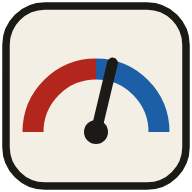
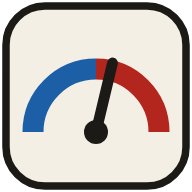
Update 46: Democrats on the left

Changed region(s): [[0.0938, 0.2812, 0.5625, 0.6875], [0.5938, 0.3125, 0.9062, 0.6875]]

diff --git a/src/MaineDashboard.jsx b/src/MaineDashboard.jsx
@@ -128,7 +128,7 @@ const txUnits = (pollMargin) =>
     : [unit("Texas", clamp(0.5 + (pollMargin - TX_HOUSE) / 200, 0.02, 0.98), 1)];
 const makeTexasSenate = (pollMargin) => ({
   id: "tx_sen", state: "TX", title: "U.S. Senate",
-  sub: "Paxton (R) vs Talarico (D)",
+  sub: "Talarico (D) vs Paxton (R)",
   system: "Plurality", real: true,
   note: `Texas leans strongly Republican, so the poll center is shifted ${TX_HOUSE} pts toward Paxton for the state's fundamentals.${TX_HAS_COUNTIES ? " County map built from 2024 results." : " County-level baseline is being added; the needle is currently statewide."}`,
   left: { full: "Paxton", short: "Paxton", color: RED },
@@ -149,7 +149,7 @@ const iaUnits = (pollMargin) =>
     : [unit("Iowa", clamp(0.5 + (pollMargin - IA_HOUSE) / 200, 0.02, 0.98), 1)];
 const makeIowaSenate = (pollMargin) => ({
   id: "ia_sen", state: "IA", title: "U.S. Senate",
-  sub: "Hinson (R) vs Turek (D)",
+  sub: "Turek (D) vs Hinson (R)",
   system: "Plurality", real: true,
   note: `Open seat (Ernst is retiring). Iowa leans strongly Republican, so the poll center is shifted ${IA_HOUSE} pts toward Hinson.${IA_HAS_COUNTIES ? " County map built from 2024 results." : " County-level baseline is being added; the needle is currently statewide."}`,
   left: { full: "Hinson", short: "Hinson", color: RED },
@@ -210,7 +210,7 @@ const makeNebraskaSenate = (pollMargin) => ({
 const AK_HOUSE = 4;
 const makeAlaskaSenate = (pollMargin = 3) => ({
   id: "ak_sen", state: "AK", title: "U.S. Senate",
-  sub: "Sullivan (R) vs Peltola (D)",
+  sub: "Peltola (D) vs Sullivan (R)",
   system: "Ranked-Choice Voting", real: true, noNight: true,
   note: `Polling forecast only. Centered on the head-to-head polling average, then shifted ${AK_HOUSE} pts toward Sullivan because Alaska polls have underestimated Republicans. Alaska's ranked-choice rounds are counted about two weeks after election night, so this needle does not move on election night.`,
   left: { full: "Sullivan", short: "Sullivan", color: RED },
@@ -898,12 +898,12 @@ export default function MaineDashboard() {
 function TiltBar({ race }) {
   const m = compute(race.units);
   const rt = rateOf(race, m);
-  const x = clamp(m.winRight, 0.02, 0.98) * 100;
+  const x = (1 - clamp(m.winRight, 0.02, 0.98)) * 100; // Democrat side drawn on the left
   return (
     <div>
       <div style={{ position: "relative", height: 8, background: C.panel2, borderRadius: 5, overflow: "hidden", marginBottom: 7 }}>
-        <div style={{ position: "absolute", left: 0, top: 0, bottom: 0, width: "50%", background: `${race.left.color}22` }} />
-        <div style={{ position: "absolute", right: 0, top: 0, bottom: 0, width: "50%", background: `${race.right.color}22` }} />
+        <div style={{ position: "absolute", left: 0, top: 0, bottom: 0, width: "50%", background: `${race.right.color}22` }} />
+        <div style={{ position: "absolute", right: 0, top: 0, bottom: 0, width: "50%", background: `${race.left.color}22` }} />
         <div style={{ position: "absolute", left: "50%", top: 0, bottom: 0, width: 1, background: C.line }} />
         <div style={{ position: "absolute", top: -2, left: `calc(${x}% - 3px)`, width: 6, height: 12, borderRadius: 3, background: rt.leader.color, boxShadow: "none", transition: "left .6s ease-out" }} />
       </div>
@@ -1290,7 +1290,7 @@ function AlaskaDetail({ race, onBack, current, wide = true, onNav }) {
       <section style={{ display: "grid", gridTemplateColumns: wide ? "minmax(0,7fr) minmax(0,5fr)" : "minmax(0,1fr)", columnGap: 40, rowGap: 22, paddingBottom: 26, borderBottom: `1px solid ${C.line}` }}>
         <div style={{ display: "flex", flexDirection: "column", gap: 12 }}>
           <div style={kicker(hasNeedle ? d.favColor : RED)}>Alaska · {race.title} · Ranked-choice voting · Forecast only</div>
-          <h1 style={{ margin: 0, fontFamily: serif, fontWeight: 600, fontSize: wide ? 48 : 32, lineHeight: 1.05, letterSpacing: -0.8 }}>Sullivan vs. Peltola</h1>
+          <h1 style={{ margin: 0, fontFamily: serif, fontWeight: 600, fontSize: wide ? 48 : 32, lineHeight: 1.05, letterSpacing: -0.8 }}>Peltola vs. Sullivan</h1>
           <p style={deckStyle(wide)}>{hasNeedle ? dekFor(race, d, current) : "Rated Lean Republican."}</p>
           <p style={{ margin: 0, fontSize: 14, lineHeight: 1.55, color: C.muted }}>This needle is a polling forecast. It won't move on election night, because Alaska's ranked-choice rounds are counted about two weeks later.</p>
         </div>
@@ -1298,8 +1298,8 @@ function AlaskaDetail({ race, onBack, current, wide = true, onNav }) {
           <div style={{ display: "flex", flexDirection: "column", alignItems: "center", gap: 8 }}>
             <div style={{ width: "100%", maxWidth: 400 }}><Dial pRight={d.pRight} width={400} left={race.left.color} right={race.right.color} /></div>
             <div style={{ display: "flex", justifyContent: "space-between", width: "100%", maxWidth: 400 }}>
-              <span style={{ display: "flex", flexDirection: "column" }}><span style={{ fontSize: wide ? 34 : 28, fontWeight: 600, color: race.left.color }}>{leftPct}%</span><span style={{ fontSize: 15, fontWeight: 600 }}>Sullivan (R)</span></span>
-              <span style={{ display: "flex", flexDirection: "column", alignItems: "flex-end" }}><span style={{ fontSize: wide ? 34 : 28, fontWeight: 600, color: race.right.color }}>{100 - leftPct}%</span><span style={{ fontSize: 15, fontWeight: 600 }}>Peltola (D)</span></span>
+              <span style={{ display: "flex", flexDirection: "column" }}><span style={{ fontSize: wide ? 34 : 28, fontWeight: 600, color: race.right.color }}>{100 - leftPct}%</span><span style={{ fontSize: 15, fontWeight: 600 }}>Peltola (D)</span></span>
+              <span style={{ display: "flex", flexDirection: "column", alignItems: "flex-end" }}><span style={{ fontSize: wide ? 34 : 28, fontWeight: 600, color: race.left.color }}>{leftPct}%</span><span style={{ fontSize: 15, fontWeight: 600 }}>Sullivan (R)</span></span>
             </div>
             <div style={{ fontSize: 14, color: C.muted, textAlign: "center" }}>Chance of winning, from the polling average · <b style={{ color: C.text }}>{d.tag}</b></div>
           </div>
@@ -1407,14 +1407,16 @@ function dekFor(r, d, current) {
   return t;
 }
 
-// The signature dial: red half on the left, blue half on the right, needle = chance of winning.
+// The signature dial: Democrat (blue) half on the LEFT, Republican (red) half on the right,
+// needle = chance of winning. Race data keeps Republicans as "left" and Democrats as "right";
+// only the drawing is mirrored, so pRight (the Democrat's chance) swings the needle leftward.
 function Dial({ pRight = 0.5, width = 420, left = RED, right = BLUE, mini = false }) {
-  const deg = (clamp(pRight, 0.01, 0.99) - 0.5) * 180;
+  const deg = (0.5 - clamp(pRight, 0.01, 0.99)) * 180;
   const sw = mini ? 26 : 20;
   return (
     <svg viewBox="0 0 220 125" width={width} height={Math.round((width * 125) / 220)} aria-hidden="true" style={{ display: "block", maxWidth: "100%", height: "auto" }}>
-      <path d="M 20 110 A 90 90 0 0 1 110 20" fill="none" stroke={tintOf(left)} strokeWidth={sw} />
-      <path d="M 110 20 A 90 90 0 0 1 200 110" fill="none" stroke={tintOf(right)} strokeWidth={sw} />
+      <path d="M 20 110 A 90 90 0 0 1 110 20" fill="none" stroke={tintOf(right)} strokeWidth={sw} />
+      <path d="M 110 20 A 90 90 0 0 1 200 110" fill="none" stroke={tintOf(left)} strokeWidth={sw} />
       {!mini && <line x1="110" y1="6" x2="110" y2="34" stroke={C.text} strokeWidth="1" />}
       <g style={{ transform: `rotate(${deg}deg)`, transformBox: "view-box", transformOrigin: "110px 110px", transition: "transform .7s cubic-bezier(0.22, 1, 0.36, 1)" }}>
         <line x1="110" y1="110" x2="110" y2={mini ? 24 : 26} stroke={C.text} strokeWidth={mini ? 10 : 3} strokeLinecap="round" />
@@ -1541,14 +1543,14 @@ function LeadStory({ r, current, wide, onPick }) {
       <p style={deckStyle(wide)}>{dekFor(r, d, current)}</p>
       {wide ? (
         <div style={{ display: "flex", alignItems: "flex-end", justifyContent: "center", gap: 28, paddingTop: 14 }}>
-          <div style={{ paddingBottom: 14 }}>{side(L, leftPct, "flex-end")}</div>
+          <div style={{ paddingBottom: 14 }}>{side(R, rightPct, "flex-end")}</div>
           <Dial pRight={d.pRight} width={420} left={L.color} right={R.color} />
-          <div style={{ paddingBottom: 14 }}>{side(R, rightPct, "flex-start")}</div>
+          <div style={{ paddingBottom: 14 }}>{side(L, leftPct, "flex-start")}</div>
         </div>
       ) : (
         <>
           <div style={{ alignSelf: "center", width: "100%", maxWidth: 320 }}><Dial pRight={d.pRight} width={320} left={L.color} right={R.color} /></div>
-          <div style={{ display: "flex", justifyContent: "space-between" }}>{side(L, leftPct, "flex-start")}{side(R, rightPct, "flex-end")}</div>
+          <div style={{ display: "flex", justifyContent: "space-between" }}>{side(R, rightPct, "flex-start")}{side(L, leftPct, "flex-end")}</div>
         </>
       )}
       <p style={{ margin: 0, textAlign: "center", fontSize: 13, color: C.muted }}>
@@ -1701,8 +1703,8 @@ function CountyTable({ race }) {
             <span style={{ fontSize: 15, fontWeight: 600, overflow: "hidden", textOverflow: "ellipsis", whiteSpace: "nowrap" }}>{u.name}</span>
             <span style={{ display: "flex", flexDirection: "column", gap: 3 }}>
               <span style={{ display: "flex", height: 10 }}>
-                <span style={{ width: `${(1 - share) * 100}%`, background: tintOf(race.left.color, 0.45) }} />
                 <span style={{ width: `${share * 100}%`, background: tintOf(race.right.color, 0.45) }} />
+                <span style={{ width: `${(1 - share) * 100}%`, background: tintOf(race.left.color, 0.45) }} />
               </span>
               {anyIn && <span style={{ fontSize: 12, color: C.muted }}>{Math.round(u.reported * 100)}% counted · expected {base >= 0 ? race.right.short : race.left.short} +{Math.abs(base)}</span>}
             </span>
@@ -1744,7 +1746,7 @@ function RacePage({ race, onBack, current, briefing, wide, onNav, night }) {
       <section style={{ display: "grid", gridTemplateColumns: wide ? "minmax(0,7fr) minmax(0,5fr)" : "minmax(0,1fr)", columnGap: 40, rowGap: 22, paddingBottom: 28, borderBottom: `1px solid ${C.line}` }}>
         <div style={{ display: "flex", flexDirection: "column", gap: 12 }}>
           <div style={kicker(paused ? C.muted : d.favColor)}>{stateLabel(race.state)} · {race.title} · {race.system}{race.liveOn ? " · Live" : paused ? " · Paused" : ""}</div>
-          <h1 style={{ margin: 0, fontFamily: serif, fontWeight: 600, fontSize: wide ? 48 : 32, lineHeight: 1.05, letterSpacing: -0.8 }}>{L.short} vs. {R.short}</h1>
+          <h1 style={{ margin: 0, fontFamily: serif, fontWeight: 600, fontSize: wide ? 48 : 32, lineHeight: 1.05, letterSpacing: -0.8 }}>{R.short} vs. {L.short}</h1>
           <p style={deckStyle(wide)}>{dekFor(race, d, current)}</p>
           {race.note && <p style={{ margin: 0, fontSize: 14, lineHeight: 1.55, color: C.muted }}>{race.note}</p>}
           {paused && <PauseNote state={race.state} />}
@@ -1753,7 +1755,7 @@ function RacePage({ race, onBack, current, briefing, wide, onNav, night }) {
           {paused && <div style={{ fontSize: 14, fontWeight: 600, color: C.muted }}>Pre-election forecast</div>}
           <div style={{ width: "100%", maxWidth: 400 }}><Dial pRight={d.pRight} width={400} left={L.color} right={R.color} /></div>
           <div style={{ display: "flex", justifyContent: "space-between", width: "100%", maxWidth: 400 }}>
-            {side(L, leftPct, t.rep, "flex-start")}{side(R, 100 - leftPct, t.dem, "flex-end")}
+            {side(R, 100 - leftPct, t.dem, "flex-start")}{side(L, leftPct, t.rep, "flex-end")}
           </div>
           <div style={{ fontSize: 14, color: C.muted, textAlign: "center" }}>
             Chance of winning · <b style={{ color: C.text }}>{d.tag}</b> · Projected {d.marginTxt} · {Math.round(d.frac * 100)}% of expected vote in

diff --git a/index.html b/index.html
@@ -21,13 +21,13 @@
     <meta property="og:title" content="The Needle Project" />
     <meta property="og:description" content="Poll-driven election needles for the 2026 races, live on election night." />
     <meta property="og:url" content="https://theneedleproject.vercel.app/" />
-    <meta property="og:image" content="https://theneedleproject.vercel.app/og-image.png?v=2" />
+    <meta property="og:image" content="https://theneedleproject.vercel.app/og-image.png?v=3" />
     <meta property="og:image:width" content="1200" />
     <meta property="og:image:height" content="630" />
     <meta name="twitter:card" content="summary_large_image" />
     <meta name="twitter:title" content="The Needle Project" />
     <meta name="twitter:description" content="Poll-driven election needles for the 2026 races, live on election night." />
-    <meta name="twitter:image" content="https://theneedleproject.vercel.app/og-image.png?v=2" />
+    <meta name="twitter:image" content="https://theneedleproject.vercel.app/og-image.png?v=3" />
     <!-- Google Analytics 4 -->
     <script async src="https://www.googletagmanager.com/gtag/js?id=G-Q7E3Z0CC9K"></script>
     <script>
